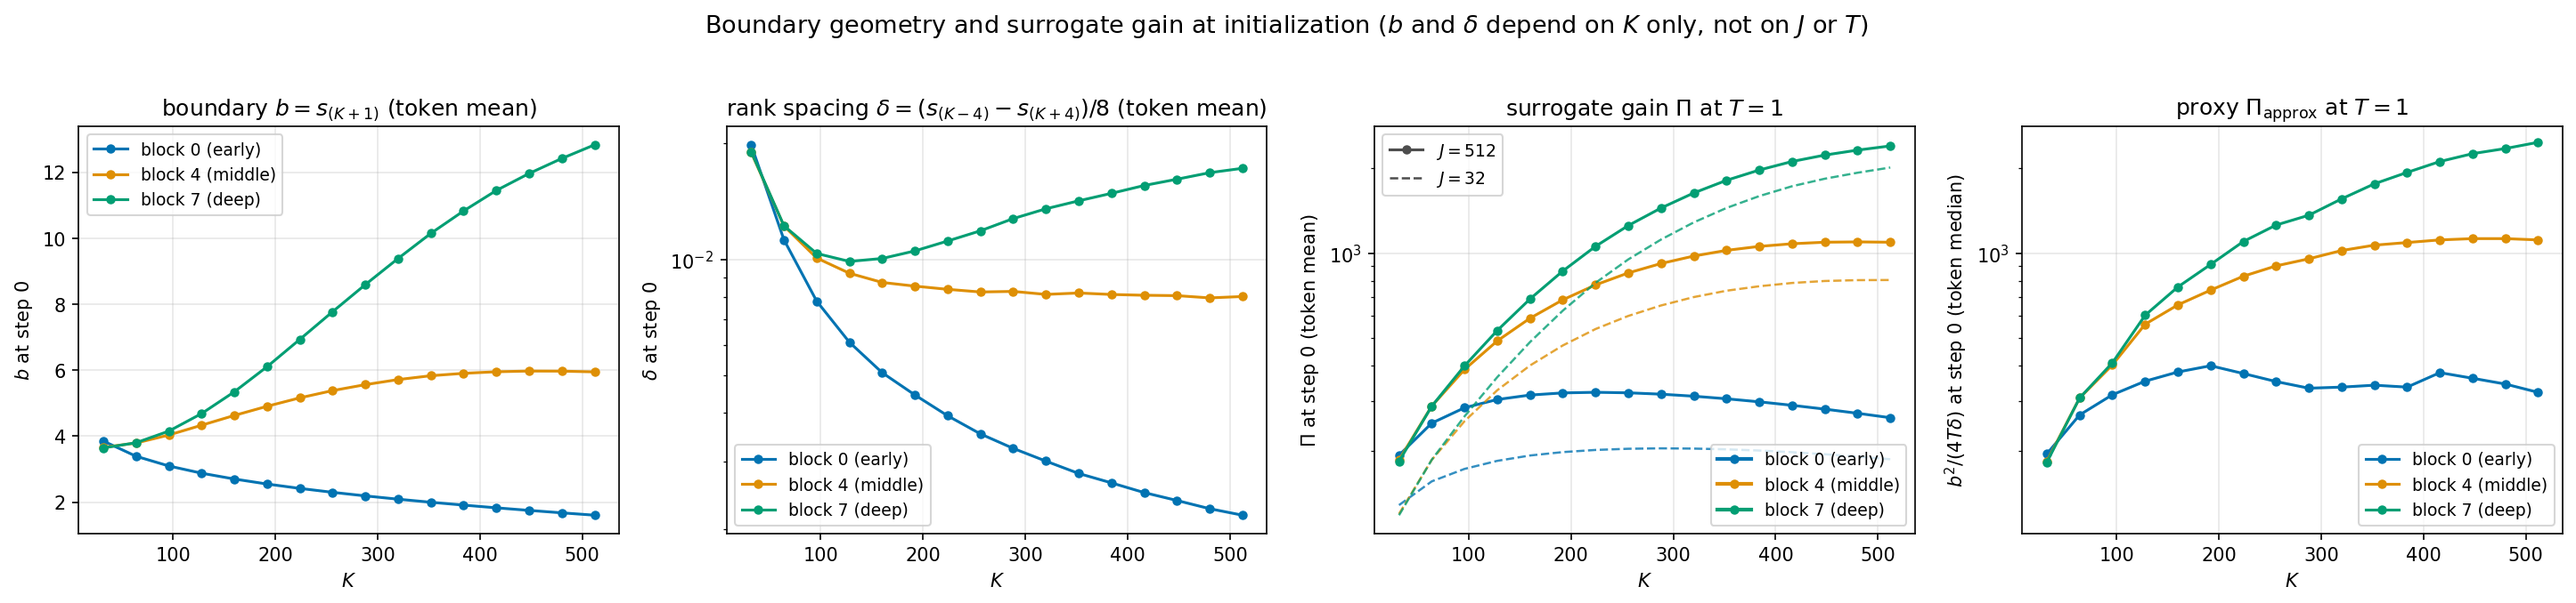
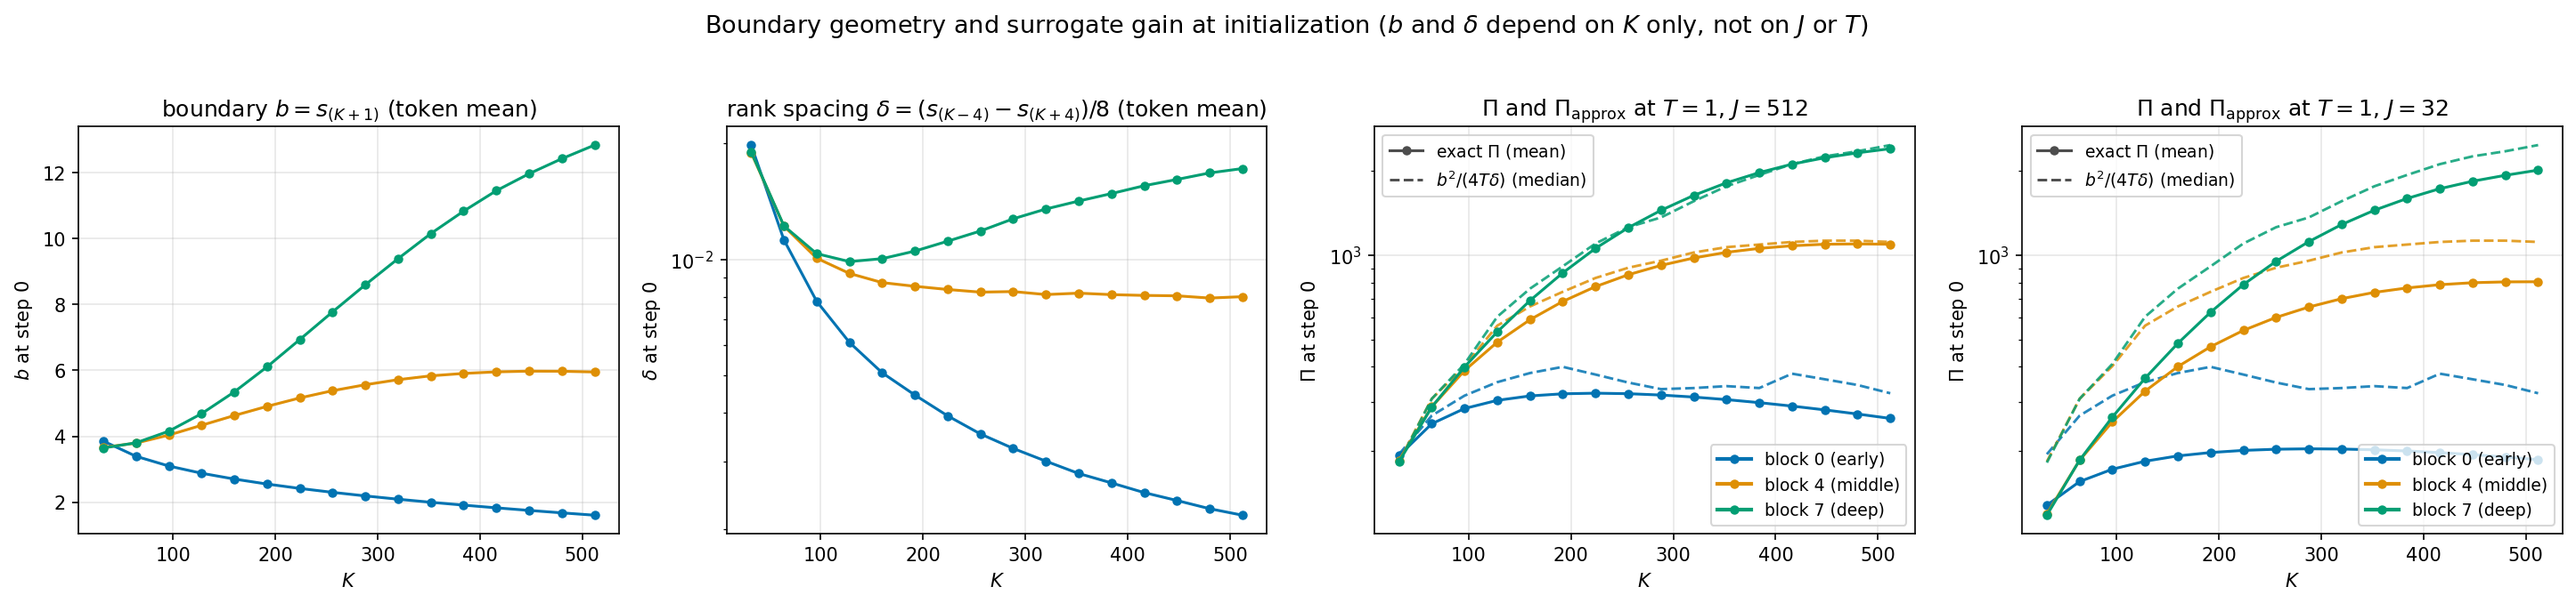
analysis: split the right panels by J, each showing Pi against the proxy
Left: J=512, right: J=32; solid exact Pi, dashed b^2/(4 T delta), shared
y-range.  The proxy has no J dependence, so the J=32 panel shows it
overestimating the exact gain.

diff --git a/scripts/plot_init_pi.py b/scripts/plot_init_pi.py
@@ -3,9 +3,9 @@
 Page 1: 3x3 grid of log-scaled Pi heatmaps -- rows are kernel temperatures,
 columns are blocks (early / middle / deep), so one row compares depth at fixed
 T and one column compares T at fixed depth.  Page 2: the boundary geometry b and
-the local rank spacing delta, which depend on K only (not on J or T), then Pi
-itself at T = 1 for the widest and narrowest candidate window, and finally the
-dense-boundary proxy b^2/(4 T delta) on the same vertical range.
+the local rank spacing delta, which depend on K only (not on J or T), then exact Pi
+against the dense-boundary proxy b^2/(4 T delta) at T = 1, once for the widest
+candidate window and once for the narrowest, on one shared vertical range.
 
 Usage: python plot_init_pi.py init_pi_grid.json out.pdf [out_png_prefix]
 """
@@ -92,44 +92,40 @@ with PdfPages(out_pdf) as pdf:
     axes[1].set_title("rank spacing $\\delta=(s_{(K-4)}-s_{(K+4)})/8$ (token mean)")
     axes[1].set_yscale("log")
     T_REF = 1.0
-    J_WIDE, J_NARROW = Js[-1], Js[0]
-    for blk in blocks:
-        wide = [d["grid"][f"K{K}_J{J_WIDE}_T{T_REF:g}_blk{blk}"]["Pi_mean"] for K in Ks]
-        narrow = [d["grid"][f"K{K}_J{J_NARROW}_T{T_REF:g}_blk{blk}"]["Pi_mean"]
+    # Panels 3 and 4: exact Pi (solid) against the dense-boundary proxy
+    # (dashed) at a wide and a narrow candidate window.  Pi_approx has no J
+    # dependence by construction -- the same curve appears in both panels --
+    # so the J=32 panel shows where the proxy stops applying.
+    #
+    # The proxy is a token MEDIAN: its mean is unusable at init (delta -> 0 on
+    # near-tied ranks sends b^2/(4 T delta) to 1e9-1e11), while the median
+    # tracks the exact gain, whose own mean and median agree to <1%.
+    for ax, J_REF in ((axes[2], Js[-1]), (axes[3], Js[0])):
+        for blk in blocks:
+            pi = [d["grid"][f"K{K}_J{J_REF}_T{T_REF:g}_blk{blk}"]["Pi_mean"]
                   for K in Ks]
-        axes[2].plot(Ks, wide, "-o", color=colors[blk], ms=4)
-        axes[2].plot(Ks, narrow, "--", color=colors[blk], lw=1.2, alpha=0.8)
-    axes[2].set_yscale("log")
-    axes[2].set_ylabel("$\\Pi$ at step 0 (token mean)")
-    axes[2].set_title(f"surrogate gain $\\Pi$ at $T={T_REF:g}$")
-    for ax in axes[:2]:
-        ax.legend(fontsize=9)
+            pa = [d["approx"][f"K{K}_T{T_REF:g}_blk{blk}"]["Pi_approx_med"]
+                  for K in Ks]
+            ax.plot(Ks, pi, "-o", color=colors[blk], ms=4)
+            ax.plot(Ks, pa, "--", color=colors[blk], lw=1.4, alpha=0.85)
+        ax.set_yscale("log")
+        ax.set_ylabel("$\\Pi$ at step 0")
+        ax.set_title(f"$\\Pi$ and $\\Pi_{{\\rm approx}}$ at "
+                     f"$T={T_REF:g}$, $J={J_REF}$")
+
     from matplotlib.lines import Line2D
     blk_handles = [Line2D([0], [0], color=colors[blk], lw=2.0, marker="o", ms=4,
                           label=f"block {blk} ({BLOCK_LABEL.get(blk, '')})")
                    for blk in blocks]
-    j_handles = [Line2D([0], [0], color="0.3", ls="-", marker="o", ms=4,
-                        label=f"$J={J_WIDE}$"),
-                 Line2D([0], [0], color="0.3", ls="--", lw=1.2,
-                        label=f"$J={J_NARROW}$")]
-    leg_b = axes[2].legend(handles=blk_handles, fontsize=9, loc="lower right")
-    axes[2].add_artist(leg_b)
-    axes[2].legend(handles=j_handles, fontsize=9, loc="upper left")
-
-    # ---- panel 4: the dense-boundary proxy, same colour scheme ----------- #
-    # The proxy's token MEAN is unusable: delta -> 0 on near-tied ranks sends
-    # b^2/(4 T delta) to 1e9-1e11.  Its median tracks the exact gain closely,
-    # and exact Pi's own mean and median agree to <1%, so the comparison below
-    # is like for like.
-    for blk in blocks:
-        pa = [d["approx"][f"K{K}_T{T_REF:g}_blk{blk}"]["Pi_approx_med"] for K in Ks]
-        axes[3].plot(Ks, pa, "-o", color=colors[blk], ms=4,
-                     label=f"block {blk} ({BLOCK_LABEL.get(blk, '')})")
-    axes[3].set_yscale("log")
-    axes[3].set_ylabel("$b^2/(4T\\delta)$ at step 0 (token median)")
-    axes[3].set_title(f"proxy $\\Pi_{{\\rm approx}}$ at $T={T_REF:g}$")
-    axes[3].legend(fontsize=9, loc="lower right")
-    # one shared vertical range makes panels 3 and 4 directly comparable
+    kind_handles = [Line2D([0], [0], color="0.3", ls="-", marker="o", ms=4,
+                           label="exact $\\Pi$ (mean)"),
+                    Line2D([0], [0], color="0.3", ls="--", lw=1.4,
+                           label="$b^2/(4T\\delta)$ (median)")]
+    for ax in (axes[2], axes[3]):
+        leg = ax.legend(handles=blk_handles, fontsize=9, loc="lower right")
+        ax.add_artist(leg)
+        ax.legend(handles=kind_handles, fontsize=9, loc="upper left")
+    # one shared vertical range makes the two panels directly comparable
     lo = min(axes[2].get_ylim()[0], axes[3].get_ylim()[0])
     hi = max(axes[2].get_ylim()[1], axes[3].get_ylim()[1])
     axes[2].set_ylim(lo, hi)
@@ -137,6 +133,7 @@ with PdfPages(out_pdf) as pdf:
     for ax in axes:
         ax.set_xlabel("$K$")
         ax.grid(alpha=0.3)
+
     fig.suptitle("Boundary geometry and surrogate gain at initialization "
                  "($b$ and $\\delta$ depend on $K$ only, not on $J$ or $T$)",
                  fontsize=13, y=1.02)
